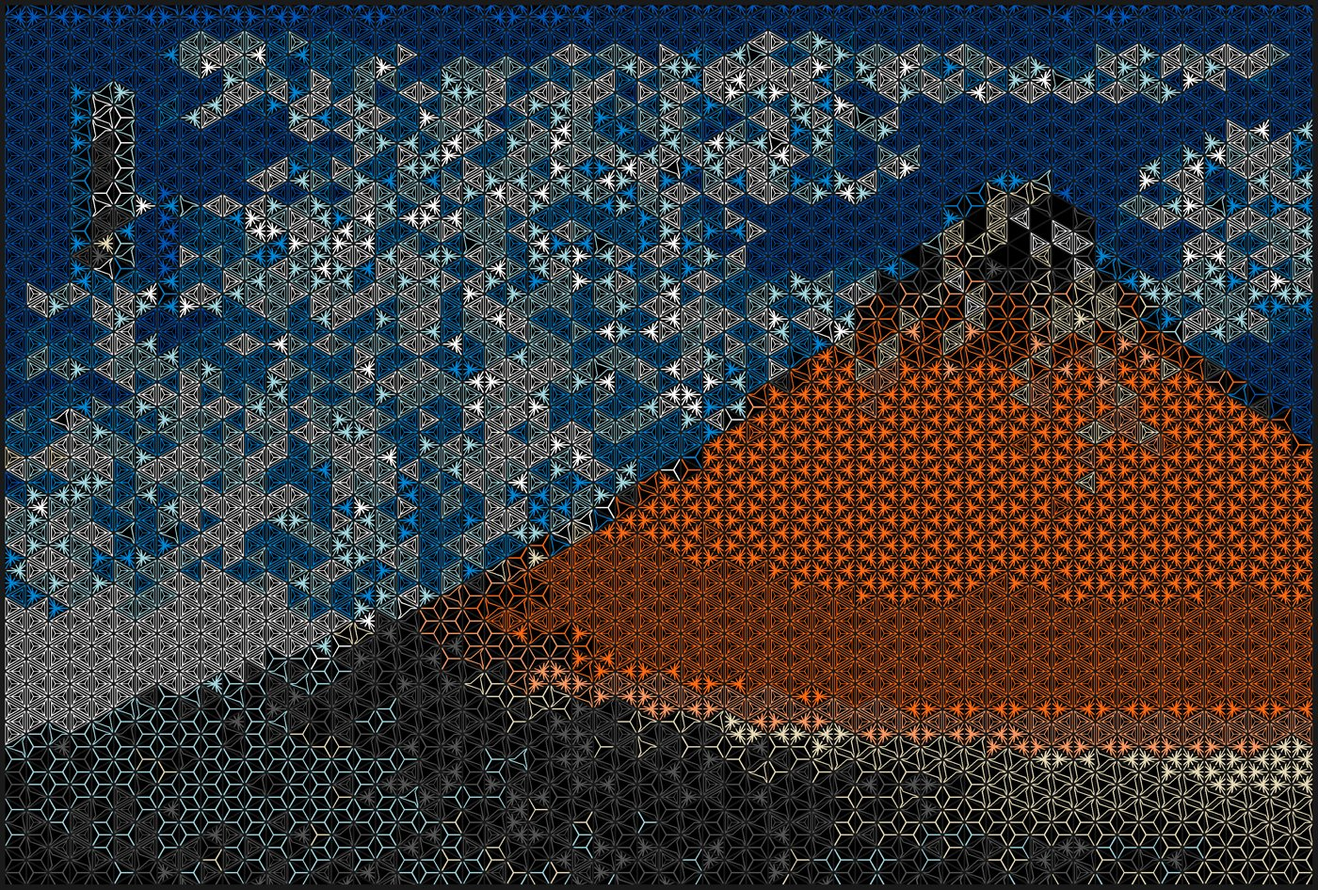
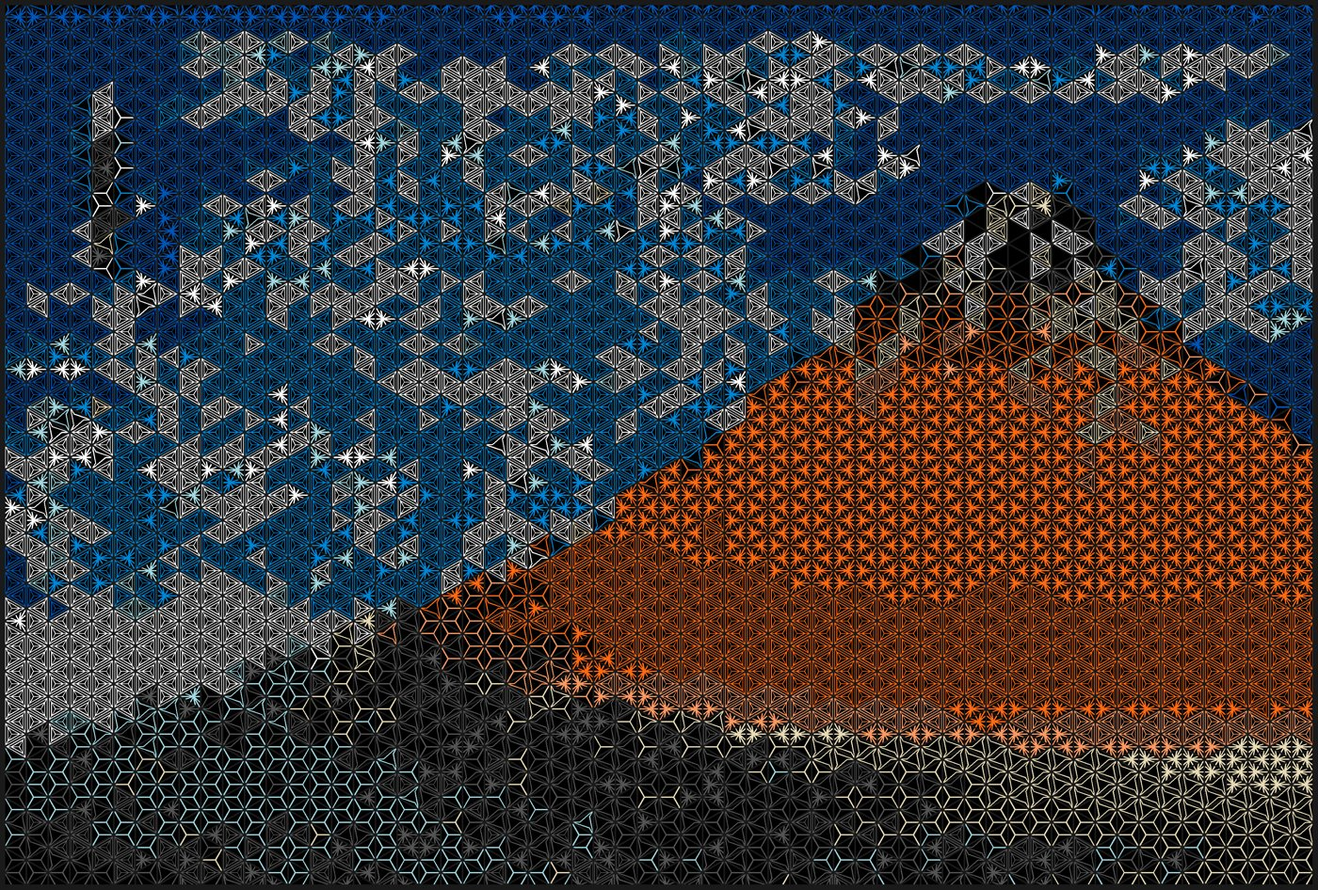
Region-voting assignment (pixel-art style) as the default
Smooth the image with an edge-preserving median filter, quantise every pixel to the nearest
achievable (filament, density) colour, and let each cell take the majority label; clean
isolated speckles against edge-neighbours. Boundaries stay crisp instead of averaging into
muddy cells. Thin coherent features are detected on the unsmoothed pixels relative to the
cell's median colour and are exempt from cleanup, so cables and masts survive.
--sampling mean keeps the previous per-cell average. Gallery rebuilt; test added.

diff --git a/examples/gallery/index.html b/examples/gallery/index.html
@@ -4,23 +4,23 @@
 h2{color:#d2ac86} .meta{font-size:13px;color:#bbb} .sw{display:inline-block;width:12px;height:12px;border:1px solid #666;margin-right:2px}</style></head><body>
 <h1>Before / after</h1><p class='meta'>Left: source image as fitted to the lattice. Right: the planned panel drawn with the real insert silhouettes (strips carry the colour over a black background; density chosen per cell to match the image). Default = 40 columns; the mm size follows the pitch (50 mm here), so lower the pitch for a smaller panel with the same detail.</p>
 <div class='card'><h2>golden_gate_bridge</h2>
-<h3 style='font-size:14px'>default_40cols: 40 x 26, 1747.1 x 1318.0 mm, 2120 cells, 2088 pattern inserts <span class='sw' style='background:#FFFFFF'></span><span class='sw' style='background:#A3D8E1'></span><span class='sw' style='background:#5B6579'></span><span class='sw' style='background:#C12E1F'></span><span class='sw' style='background:#56B7E6'></span><span class='sw' style='background:#9D432C'></span><span class='sw' style='background:#E8DBB7'></span><span class='sw' style='background:#7D6556'></span></h3><div class='row'><img src='golden_gate_bridge_source.jpg'><img src='golden_gate_bridge_default_40cols.jpg'></div>
-<h3 style='font-size:14px'>60cols: 60 x 39, 2613.1 x 1968.0 mm, 4740 cells, 4631 pattern inserts <span class='sw' style='background:#FFFFFF'></span><span class='sw' style='background:#A3D8E1'></span><span class='sw' style='background:#5B6579'></span><span class='sw' style='background:#E8DBB7'></span><span class='sw' style='background:#56B7E6'></span><span class='sw' style='background:#9D432C'></span><span class='sw' style='background:#C12E1F'></span><span class='sw' style='background:#FF6A13'></span></h3><div class='row'><img src='golden_gate_bridge_source.jpg'><img src='golden_gate_bridge_60cols.jpg'></div>
+<h3 style='font-size:14px'>default_40cols: 40 x 26, 1747.1 x 1318.0 mm, 2120 cells, 2071 pattern inserts <span class='sw' style='background:#FFFFFF'></span><span class='sw' style='background:#A3D8E1'></span><span class='sw' style='background:#5B6579'></span><span class='sw' style='background:#C12E1F'></span><span class='sw' style='background:#56B7E6'></span><span class='sw' style='background:#E8DBB7'></span><span class='sw' style='background:#9D432C'></span><span class='sw' style='background:#7D6556'></span></h3><div class='row'><img src='golden_gate_bridge_source.jpg'><img src='golden_gate_bridge_default_40cols.jpg'></div>
+<h3 style='font-size:14px'>60cols: 60 x 39, 2613.1 x 1968.0 mm, 4740 cells, 4615 pattern inserts <span class='sw' style='background:#FFFFFF'></span><span class='sw' style='background:#A3D8E1'></span><span class='sw' style='background:#5B6579'></span><span class='sw' style='background:#E8DBB7'></span><span class='sw' style='background:#56B7E6'></span><span class='sw' style='background:#9D432C'></span><span class='sw' style='background:#FF6A13'></span><span class='sw' style='background:#C12E1F'></span></h3><div class='row'><img src='golden_gate_bridge_source.jpg'><img src='golden_gate_bridge_60cols.jpg'></div>
 </div>
 <div class='card'><h2>lighthouse</h2>
-<h3 style='font-size:14px'>default_40cols: 40 x 19, 1747.1 x 968.0 mm, 1560 cells, 1556 pattern inserts <span class='sw' style='background:#FFFFFF'></span><span class='sw' style='background:#0086D6'></span><span class='sw' style='background:#56B7E6'></span><span class='sw' style='background:#9B9EA0'></span><span class='sw' style='background:#F7D959'></span><span class='sw' style='background:#D3B7A7'></span><span class='sw' style='background:#847D48'></span><span class='sw' style='background:#DE4343'></span></h3><div class='row'><img src='lighthouse_source.jpg'><img src='lighthouse_default_40cols.jpg'></div>
-<h3 style='font-size:14px'>60cols: 60 x 29, 2613.1 x 1468.0 mm, 3540 cells, 3529 pattern inserts <span class='sw' style='background:#FFFFFF'></span><span class='sw' style='background:#56B7E6'></span><span class='sw' style='background:#0086D6'></span><span class='sw' style='background:#D3B7A7'></span><span class='sw' style='background:#F7D959'></span><span class='sw' style='background:#757575'></span><span class='sw' style='background:#BECF00'></span><span class='sw' style='background:#DE4343'></span></h3><div class='row'><img src='lighthouse_source.jpg'><img src='lighthouse_60cols.jpg'></div>
+<h3 style='font-size:14px'>default_40cols: 40 x 19, 1747.1 x 968.0 mm, 1560 cells, 1532 pattern inserts <span class='sw' style='background:#FFFFFF'></span><span class='sw' style='background:#56B7E6'></span><span class='sw' style='background:#F7D959'></span><span class='sw' style='background:#0086D6'></span><span class='sw' style='background:#9B9EA0'></span><span class='sw' style='background:#D3B7A7'></span><span class='sw' style='background:#847D48'></span><span class='sw' style='background:#DE4343'></span></h3><div class='row'><img src='lighthouse_source.jpg'><img src='lighthouse_default_40cols.jpg'></div>
+<h3 style='font-size:14px'>60cols: 60 x 29, 2613.1 x 1468.0 mm, 3540 cells, 3513 pattern inserts <span class='sw' style='background:#FFFFFF'></span><span class='sw' style='background:#0086D6'></span><span class='sw' style='background:#56B7E6'></span><span class='sw' style='background:#F7D959'></span><span class='sw' style='background:#757575'></span><span class='sw' style='background:#D3B7A7'></span><span class='sw' style='background:#BECF00'></span><span class='sw' style='background:#DE4343'></span></h3><div class='row'><img src='lighthouse_source.jpg'><img src='lighthouse_60cols.jpg'></div>
 </div>
 <div class='card'><h2>red_fuji</h2>
-<h3 style='font-size:14px'>default_40cols: 40 x 23, 1747.1 x 1168.0 mm, 1880 cells, 1877 pattern inserts <span class='sw' style='background:#FF6A13'></span><span class='sw' style='background:#A3D8E1'></span><span class='sw' style='background:#0086D6'></span><span class='sw' style='background:#0056B8'></span><span class='sw' style='background:#FFFFFF'></span><span class='sw' style='background:#545454'></span><span class='sw' style='background:#E8DBB7'></span><span class='sw' style='background:#F99963'></span></h3><div class='row'><img src='red_fuji_source.jpg'><img src='red_fuji_default_40cols.jpg'></div>
-<h3 style='font-size:14px'>60cols: 60 x 35, 2613.1 x 1768.0 mm, 4260 cells, 4248 pattern inserts <span class='sw' style='background:#FF6A13'></span><span class='sw' style='background:#A3D8E1'></span><span class='sw' style='background:#0056B8'></span><span class='sw' style='background:#FFFFFF'></span><span class='sw' style='background:#0086D6'></span><span class='sw' style='background:#545454'></span><span class='sw' style='background:#E8DBB7'></span><span class='sw' style='background:#F99963'></span></h3><div class='row'><img src='red_fuji_source.jpg'><img src='red_fuji_60cols.jpg'></div>
+<h3 style='font-size:14px'>default_40cols: 40 x 23, 1747.1 x 1168.0 mm, 1880 cells, 1877 pattern inserts <span class='sw' style='background:#0086D6'></span><span class='sw' style='background:#FF6A13'></span><span class='sw' style='background:#FFFFFF'></span><span class='sw' style='background:#0056B8'></span><span class='sw' style='background:#545454'></span><span class='sw' style='background:#E8DBB7'></span><span class='sw' style='background:#A3D8E1'></span><span class='sw' style='background:#F99963'></span></h3><div class='row'><img src='red_fuji_source.jpg'><img src='red_fuji_default_40cols.jpg'></div>
+<h3 style='font-size:14px'>60cols: 60 x 35, 2613.1 x 1768.0 mm, 4260 cells, 4247 pattern inserts <span class='sw' style='background:#FF6A13'></span><span class='sw' style='background:#FFFFFF'></span><span class='sw' style='background:#0086D6'></span><span class='sw' style='background:#0056B8'></span><span class='sw' style='background:#545454'></span><span class='sw' style='background:#E8DBB7'></span><span class='sw' style='background:#A3D8E1'></span><span class='sw' style='background:#F99963'></span></h3><div class='row'><img src='red_fuji_source.jpg'><img src='red_fuji_60cols.jpg'></div>
 </div>
 <div class='card'><h2>starry_night</h2>
-<h3 style='font-size:14px'>default_40cols: 40 x 27, 1747.1 x 1368.0 mm, 2200 cells, 2189 pattern inserts <span class='sw' style='background:#0086D6'></span><span class='sw' style='background:#56B7E6'></span><span class='sw' style='background:#A3D8E1'></span><span class='sw' style='background:#0056B8'></span><span class='sw' style='background:#8E9089'></span><span class='sw' style='background:#5B6579'></span><span class='sw' style='background:#C2E189'></span><span class='sw' style='background:#FFFFFF'></span></h3><div class='row'><img src='starry_night_source.jpg'><img src='starry_night_default_40cols.jpg'></div>
-<h3 style='font-size:14px'>60cols: 60 x 41, 2613.1 x 2068.0 mm, 4980 cells, 4977 pattern inserts <span class='sw' style='background:#0086D6'></span><span class='sw' style='background:#56B7E6'></span><span class='sw' style='background:#A3D8E1'></span><span class='sw' style='background:#545454'></span><span class='sw' style='background:#0056B8'></span><span class='sw' style='background:#E8DBB7'></span><span class='sw' style='background:#C2E189'></span><span class='sw' style='background:#F4EE2A'></span></h3><div class='row'><img src='starry_night_source.jpg'><img src='starry_night_60cols.jpg'></div>
+<h3 style='font-size:14px'>default_40cols: 40 x 27, 1747.1 x 1368.0 mm, 2200 cells, 2183 pattern inserts <span class='sw' style='background:#0086D6'></span><span class='sw' style='background:#0056B8'></span><span class='sw' style='background:#56B7E6'></span><span class='sw' style='background:#8E9089'></span><span class='sw' style='background:#A3D8E1'></span><span class='sw' style='background:#C2E189'></span><span class='sw' style='background:#5B6579'></span><span class='sw' style='background:#FFFFFF'></span></h3><div class='row'><img src='starry_night_source.jpg'><img src='starry_night_default_40cols.jpg'></div>
+<h3 style='font-size:14px'>60cols: 60 x 41, 2613.1 x 2068.0 mm, 4980 cells, 4960 pattern inserts <span class='sw' style='background:#0056B8'></span><span class='sw' style='background:#0086D6'></span><span class='sw' style='background:#A3D8E1'></span><span class='sw' style='background:#56B7E6'></span><span class='sw' style='background:#545454'></span><span class='sw' style='background:#E8DBB7'></span><span class='sw' style='background:#C2E189'></span><span class='sw' style='background:#F4EE2A'></span></h3><div class='row'><img src='starry_night_source.jpg'><img src='starry_night_60cols.jpg'></div>
 </div>
 <div class='card'><h2>sunflower</h2>
-<h3 style='font-size:14px'>default_40cols: 40 x 23, 1747.1 x 1168.0 mm, 1880 cells, 1850 pattern inserts <span class='sw' style='background:#0086D6'></span><span class='sw' style='background:#FFFFFF'></span><span class='sw' style='background:#5E43B7'></span><span class='sw' style='background:#FF9016'></span><span class='sw' style='background:#F4EE2A'></span><span class='sw' style='background:#3F8E43'></span><span class='sw' style='background:#FEC600'></span><span class='sw' style='background:#C2E189'></span></h3><div class='row'><img src='sunflower_source.jpg'><img src='sunflower_default_40cols.jpg'></div>
-<h3 style='font-size:14px'>60cols: 60 x 35, 2613.1 x 1768.0 mm, 4260 cells, 4171 pattern inserts <span class='sw' style='background:#0086D6'></span><span class='sw' style='background:#FFFFFF'></span><span class='sw' style='background:#FF9016'></span><span class='sw' style='background:#5E43B7'></span><span class='sw' style='background:#F4EE2A'></span><span class='sw' style='background:#3F8E43'></span><span class='sw' style='background:#FEC600'></span><span class='sw' style='background:#56B7E6'></span></h3><div class='row'><img src='sunflower_source.jpg'><img src='sunflower_60cols.jpg'></div>
+<h3 style='font-size:14px'>default_40cols: 40 x 23, 1747.1 x 1168.0 mm, 1880 cells, 1851 pattern inserts <span class='sw' style='background:#0086D6'></span><span class='sw' style='background:#FFFFFF'></span><span class='sw' style='background:#FF9016'></span><span class='sw' style='background:#5E43B7'></span><span class='sw' style='background:#3F8E43'></span><span class='sw' style='background:#FEC600'></span><span class='sw' style='background:#F4EE2A'></span><span class='sw' style='background:#C2E189'></span></h3><div class='row'><img src='sunflower_source.jpg'><img src='sunflower_default_40cols.jpg'></div>
+<h3 style='font-size:14px'>60cols: 60 x 35, 2613.1 x 1768.0 mm, 4260 cells, 4176 pattern inserts <span class='sw' style='background:#0086D6'></span><span class='sw' style='background:#FF9016'></span><span class='sw' style='background:#FFFFFF'></span><span class='sw' style='background:#5E43B7'></span><span class='sw' style='background:#3F8E43'></span><span class='sw' style='background:#F4EE2A'></span><span class='sw' style='background:#FEC600'></span><span class='sw' style='background:#56B7E6'></span></h3><div class='row'><img src='sunflower_source.jpg'><img src='sunflower_60cols.jpg'></div>
 </div>
 </body></html>

diff --git a/kumiko_mosaic/match.py b/kumiko_mosaic/match.py
@@ -215,3 +215,130 @@ def assign_strips(grid: Grid, palette: Sequence[Filament], bg_hex: str, ladder: 
                 err[(c.col, c.row + 1)] = err.get((c.col, c.row + 1), 0.0) + e * 0.5
                 err[(c.col + 1, c.row)] = err.get((c.col + 1, c.row), 0.0) + e * 0.5
     return cov
+
+
+# ---- region voting (pixel-art style) --------------------------------------------------------------
+
+def _cell_neighbours(grid: Grid) -> Dict[Tuple[int, int], List[Tuple[int, int]]]:
+    """Cells that share an edge (two vertices)."""
+    key = lambda p: (round(p[0], 3), round(p[1], 3))  # noqa: E731
+    edges: Dict[tuple, List[Tuple[int, int]]] = {}
+    for c in grid.cells:
+        pts = [key(p) for p in c.poly]
+        for i in range(len(pts)):
+            e = tuple(sorted((pts[i], pts[(i + 1) % len(pts)])))
+            edges.setdefault(e, []).append((c.col, c.row))
+    nb: Dict[Tuple[int, int], List[Tuple[int, int]]] = {(c.col, c.row): [] for c in grid.cells}
+    for cells in edges.values():
+        if len(cells) == 2:
+            a, b = cells
+            nb[a].append(b)
+            nb[b].append(a)
+    return nb
+
+
+def assign_strips_vote(grid: Grid, palette: Sequence[Filament], bg_hex: str, ladder: Sequence[str],
+                       strip_mm: float, fitted, px_per_mm: float, clearance: float = 0.0,
+                       allow_empty: bool = True, max_patterns: Optional[int] = None,
+                       min_hole_mm: float = MIN_HOLE_MM, smooth_mm: float = 10.0,
+                       line_boost: float = 4.0, line_min_delta: float = 22.0,
+                       cleanup: bool = True) -> Dict[str, float]:
+    """Pixel-art style assignment. 1) edge-preserving (median) smoothing of the image at
+    1 px/mm removes texture, 2) every pixel is quantised to the nearest achievable mix
+    (filament x pattern density over the background), 3) each cell takes the majority label,
+    so region boundaries stay crisp instead of averaging into in-between colours, 4) a thin
+    coherent feature (cable, mast) may still take a cell (line boost), 5) isolated cells that
+    disagree with all their neighbours are flipped to the neighbours' label when they have
+    some support for it."""
+    from PIL import Image, ImageDraw, ImageFilter
+    from .imagemap import hex_to_rgb
+    bg = hex_to_rgb(bg_hex)
+    ladder = usable_ladder(grid, ladder, strip_mm, min_hole_mm)
+    if not ladder:
+        raise ValueError("no pattern in the ladder is printable at this pitch/strip width")
+    cov = coverage_table(grid, ladder, strip_mm, clearance)
+    if max_patterns:
+        ladder = choose_pattern_subset(grid, palette, bg, ladder, cov, max_patterns, allow_empty)
+        cov = {k: cov[k] for k in ladder}
+    options: List[Tuple[Optional[Filament], Optional[str], np.ndarray]] = []
+    for f in palette:
+        for pid in ladder:
+            options.append((f, pid, mixed_rgb(f.rgb, bg, cov[pid])))
+    if allow_empty:
+        options.append((None, None, np.asarray(bg, dtype=float)))
+    opt_rgb = np.array([o[2] for o in options])
+    opt_lab = rgb_to_lab(opt_rgb)
+
+    # 1) smoothed working image at 1 px/mm
+    W = max(1, int(round(grid.lattice_width)))
+    H = max(1, int(round(grid.lattice_height)))
+    base = fitted.convert("RGB").resize((W, H), Image.LANCZOS)
+    k = max(3, int(round(smooth_mm)) | 1)
+    img = base.filter(ImageFilter.MedianFilter(k))
+    arr = np.asarray(img, dtype=np.float64)
+    lab = rgb_to_lab(arr.reshape(-1, 3)).reshape(H, W, 3)          # smoothed: for the vote
+    raw = rgb_to_lab(np.asarray(base, dtype=np.float64).reshape(-1, 3)).reshape(H, W, 3)  # for thin features
+
+    # 2+3) per-cell quantise and vote
+    labels: Dict[Tuple[int, int], int] = {}
+    hist: Dict[Tuple[int, int], np.ndarray] = {}
+    boosted: set = set()
+    for c in grid.cells:
+        xs = [p[0] for p in c.poly]
+        ys = [p[1] for p in c.poly]
+        x0, x1 = max(0, int(min(xs))), min(W, int(np.ceil(max(xs))) + 1)
+        y0, y1 = max(0, int(min(ys))), min(H, int(np.ceil(max(ys))) + 1)
+        mask = Image.new("L", (x1 - x0, y1 - y0), 0)
+        ImageDraw.Draw(mask).polygon([(x - x0, y - y0) for x, y in c.poly], fill=255)
+        m = np.asarray(mask) > 0
+        pl = lab[y0:y1, x0:x1][m]
+        if len(pl) == 0:
+            cx, cy = c.centroid
+            pl = lab[min(H - 1, int(cy)), min(W - 1, int(cx))][None, :]
+        d = ((pl[:, None, :] - opt_lab[None, :, :]) ** 2).sum(-1)
+        li = d.argmin(1)
+        h = np.bincount(li, minlength=len(options)).astype(float)
+        mode = int(h.argmax())
+        # 4) line boost on the UNSMOOTHED pixels: a coherent minority far from the chosen
+        #    colour takes the cell (cables, masts, outlines thinner than the smoothing radius)
+        pr = raw[y0:y1, x0:x1][m]
+        if line_boost > 0 and len(pr) >= 16:
+            med = np.median(pr, axis=0)                 # the cell's own typical colour
+            far = np.sqrt(((pr - med) ** 2).sum(1)) > line_min_delta
+            f = far.mean()
+            if 0.03 < f < 0.45:
+                fl = pr[far]
+                spread = float(np.sqrt(((fl - fl.mean(0)) ** 2).sum(1)).mean())
+                if spread < 34.0:
+                    # push the cell colour from its median towards the feature in proportion
+                    # to the feature's area, then pick the nearest achievable mix
+                    w = min(1.0, f * line_boost)
+                    target = med + (fl.mean(0) - med) * w
+                    new = int(((opt_lab - target) ** 2).sum(1).argmin())
+                    if new != mode:
+                        boosted.add((c.col, c.row))   # intentional: exempt from speckle cleanup
+                        mode = new
+        labels[(c.col, c.row)] = mode
+        hist[(c.col, c.row)] = h / h.sum()
+
+    # 5) speckle cleanup
+    if cleanup:
+        nb = _cell_neighbours(grid)
+        for key_, lbl in list(labels.items()):
+            if key_ in boosted:
+                continue
+            ns = [labels[n] for n in nb[key_]]
+            if not ns or lbl in ns:
+                continue
+            vals, counts = np.unique(ns, return_counts=True)
+            best = int(vals[counts.argmax()])
+            if counts.max() >= 2 and hist[key_][best] >= 0.2:
+                labels[key_] = best
+
+    for c in grid.cells:
+        f, pid, _ = options[labels[(c.col, c.row)]]
+        if f is None:
+            c.color, c.color_name, c.pattern = bg_hex, "background", None
+        else:
+            c.color, c.color_name, c.pattern = f.hex, f.name, pid
+    return cov

diff --git a/kumiko_mosaic/pipeline.py b/kumiko_mosaic/pipeline.py
@@ -33,6 +33,8 @@ class Params:
     fit: str = "cover"
     enhance: bool = True                   # autocontrast + mild saturation boost before sampling
     sample_shrink: float = 0.85
+    sampling: str = "vote"                 # vote (pixel-art style region voting, default) | mean (per-cell average)
+    smooth_mm: float = 10.0                # vote mode: edge-preserving smoothing radius before quantising
     line_boost: float = 4.0                # keep thin contrasting features (cables, masts); 0 = off, 8 = strong
     line_coherence: float = 34.0           # max colour spread (CIELAB) of a feature to count as a line, not texture
     # colours
@@ -99,9 +101,15 @@ def run(image_path: str, out_dir: str, params: Params) -> dict:
             cov0 = match.coverage_table(grid, usable, params.strip_mm, params.clearance)
             palette = match.choose_filaments(grid, filaments.catalogue(params.filament_set), bgf.rgb, usable,
                                              cov0, params.max_colors)
-        coverage = match.assign_strips(grid, palette, bgf.hex, ladder, params.strip_mm, params.clearance,
-                                       dither=params.dither, max_patterns=params.max_patterns,
-                                       min_hole_mm=params.min_hole_mm)
+        if params.sampling == "vote":
+            coverage = match.assign_strips_vote(grid, palette, bgf.hex, ladder, params.strip_mm, fitted, ppm,
+                                                params.clearance, max_patterns=params.max_patterns,
+                                                min_hole_mm=params.min_hole_mm, smooth_mm=params.smooth_mm,
+                                                line_boost=params.line_boost)
+        else:
+            coverage = match.assign_strips(grid, palette, bgf.hex, ladder, params.strip_mm, params.clearance,
+                                           dither=params.dither, max_patterns=params.max_patterns,
+                                           min_hole_mm=params.min_hole_mm)
         if params.edge_halves == "background":
             for c in grid.half_cells():
                 c.pattern = None

diff --git a/kumiko_mosaic/cli.py b/kumiko_mosaic/cli.py
@@ -36,6 +36,9 @@ def build_parser() -> argparse.ArgumentParser:
     s.add_argument("--measure", choices=["outer", "lattice"], default="outer")
     i = ap.add_argument_group("image and colour")
     i.add_argument("--fit", choices=["cover", "contain", "stretch"], default="cover")
+    i.add_argument("--sampling", choices=["vote", "mean"], default="vote",
+                   help="vote: smooth, quantise pixels, majority per cell (crisp edges); mean: per-cell average")
+    i.add_argument("--smooth-mm", type=float, default=10.0, help="vote mode: smoothing radius in mm")
     i.add_argument("--line-boost", type=float, default=4.0,
                    help="keep thin contrasting features that averaging erases (cables, masts); 4-8 is strong, 0 = off")
     i.add_argument("--line-coherence", type=float, default=34.0,
@@ -88,7 +91,7 @@ def main(argv=None) -> int:
     bed = a.bed if len(a.bed) == 2 else [a.bed[0], a.bed[0]]
     params = Params(pitch=a.pitch, mitsuke=a.mitsuke, border=a.border, orientation=a.orientation,
                     width_mm=a.width_mm, height_mm=a.height_mm, cols=a.cols, rows=a.rows,
-                    max_cells=a.max_cells, measure=a.measure, fit=a.fit, line_boost=a.line_boost, line_coherence=a.line_coherence, palette=a.palette,
+                    max_cells=a.max_cells, measure=a.measure, fit=a.fit, sampling=a.sampling, smooth_mm=a.smooth_mm, line_boost=a.line_boost, line_coherence=a.line_coherence, palette=a.palette,
                     max_colors=a.max_colors, filament_set=a.filament_set, dither=a.dither, enhance=not a.no_enhance, color_layer=a.color_layer,
                     background_color=a.background_color, pattern_color=a.pattern_color, frame_color=a.frame_color,
                     pattern_mode=a.pattern_mode, max_patterns=a.max_patterns, min_hole_mm=a.min_hole, color_pattern_map=json.loads(a.color_pattern_map),

diff --git a/tests/test_pipeline.py b/tests/test_pipeline.py
@@ -218,3 +218,22 @@ def test_mixed_rgb_endpoints():
     assert np.allclose(mixed_rgb((200, 10, 10), (0, 0, 0), 0.0), (0, 0, 0), atol=0.5)
     mid = mixed_rgb((255, 255, 255), (0, 0, 0), 0.5)
     assert 180 < mid[0] < 195          # linear-light average of white and black is ~188 sRGB
+
+
+def test_vote_mode_crisp_regions(tmp_path):
+    """Two flat regions with a soft boundary: vote mode must produce exactly two labels and no
+    boundary cells of a third colour, which averaging would create."""
+    from kumiko_mosaic import match
+    a = np.zeros((300, 450, 3), dtype=np.uint8)
+    a[:, :225] = (220, 40, 40)
+    a[:, 225:] = (40, 60, 220)
+    for x in range(215, 235):               # soft 20 px boundary
+        t = (x - 215) / 20.0
+        a[:, x] = (np.array((220, 40, 40)) * (1 - t) + np.array((40, 60, 220)) * t).astype(np.uint8)
+    p = tmp_path / "two.png"
+    Image.fromarray(a).save(p)
+    s = run(str(p), str(tmp_path / "o7"), Params(cols=12, max_colors=3, max_patterns=2, enhance=False,
+                                                 line_boost=0, export_3mf=False, export_stl=False))
+    colours = {r["color"] for r in s["bom"] if r["layer"] == "pattern"}
+    assert len(colours) == 2
+    assert s["params"]["sampling"] == "vote"

diff --git a/README.md b/README.md
@@ -92,11 +92,16 @@ counts and grams so you can trade off.
 
 ### Colour (how the image is reproduced)
 
-Default: the **kumiko strips carry the colour** over one background filament (black), and the
-tone comes from strip density. For every cell the tool picks the filament *and* the pattern
-whose mixed colour (coverage x filament + (1 - coverage) x background, in linear light) is
-closest to the image in CIELAB. Dark areas get sparse patterns, bright or saturated areas dense
-ones.
+The **kumiko strips carry the colour** over one background filament (black), and the tone
+comes from strip density. The achievable colours are every (filament, pattern) pair: coverage x
+filament + (1 - coverage) x background, mixed in linear light.
+
+Default assignment is **region voting** (`--sampling vote`, after Kopf & Lischinski's pixel-art
+abstraction): the image is smoothed with an edge-preserving median filter (`--smooth-mm 10`) to
+remove texture, every pixel is quantised to the nearest achievable colour in CIELAB, and each
+cell takes the majority label. Region boundaries stay crisp instead of averaging into muddy
+in-between cells. Isolated cells that disagree with all their neighbours are flipped to the
+neighbours' label. `--sampling mean` is the older per-cell average + nearest match.
 
 The density ladder is filtered per pitch so that **every opening stays at least `--min-hole`
 (2.5 mm) wide** and no pattern covers more than 65% of the cell: lines must stay lines, not
